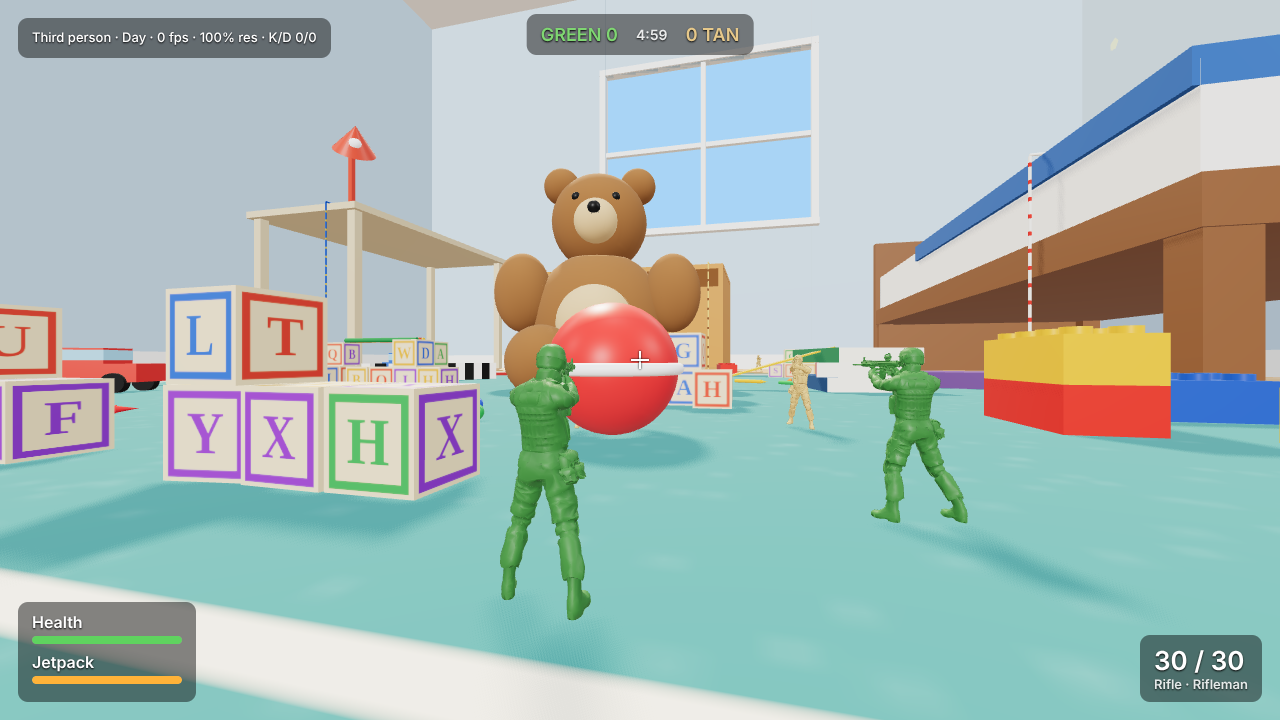
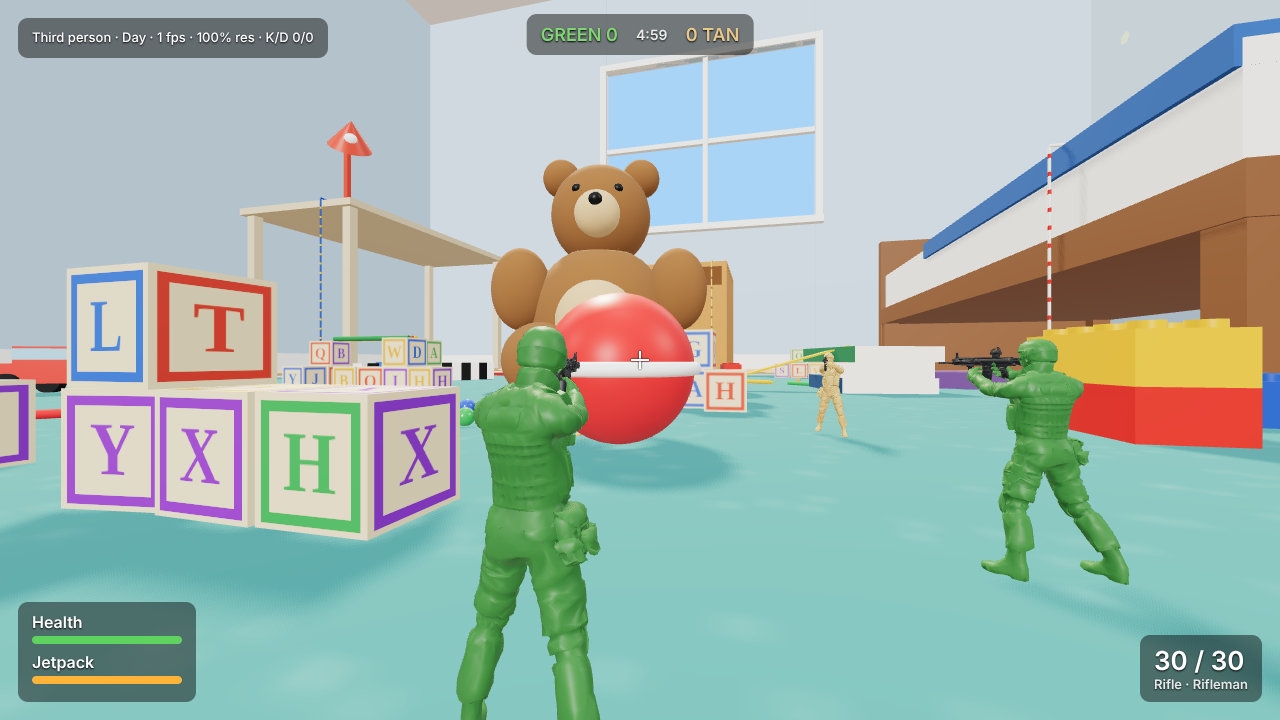
Toy Soldiers: weapon views closer to AAA framing
Compared first-person hip, aimed and third-person views of every
weapon against the conventions of big shooters and adjusted:

- Guns get their own dark plastic so they read against the hands
  (soldier.gunColor; null restores one-colour figures)
- Hip view: gun larger, higher and angled in from the lower right
- Aiming: sight held closer to the eye in first person for a larger
  sight picture; red-dot sights draw a glowing dot
- Third person: camera closer over the right shoulder so the soldier
  fills about 40% of the view height

Claude-Session: https://claude.ai/code/session_0152o8Qf7nJissMg9Znhw23j

diff --git a/toy-soldiers/src/entities/RiggedSoldier.js b/toy-soldiers/src/entities/RiggedSoldier.js
@@ -221,6 +221,16 @@ function boneChunks(geometry, rest) {
   return out;
 }
 
+// Guns: their own dark plastic (or the team colour if gunColor is null).
+let gunMat = null;
+function gunMaterial(team) {
+  if (CONFIG.soldier.gunColor == null) return soldierMaterial(team);
+  gunMat ??= new THREE.MeshStandardMaterial({ color: CONFIG.soldier.gunColor, roughness: 0.4, metalness: 0, vertexColors: true, side: THREE.DoubleSide });
+  return gunMat;
+}
+const dotGeometry = new THREE.SphereGeometry(0.011, 10, 8);
+const dotMaterial = new THREE.MeshBasicMaterial({ color: 0xff2a1a, toneMapped: false });
+
 const materials = {};
 export function soldierMaterial(team) {
   materials[team] ??= new THREE.MeshStandardMaterial({
@@ -250,20 +260,21 @@ export function createSoldier(team, { detail = 'game', hideHead = false, gun = C
   root.add(mesh);
   if (hideHead) bones[B.head].scale.setScalar(0.001);
 
-  const gunMesh = new THREE.Mesh(assets.guns[gun][detail], material);
+  const gunMesh = new THREE.Mesh(assets.guns[gun][detail], gunMaterial(team));
   gunMesh.castShadow = true;
   gunMesh.receiveShadow = true;
   gunMesh.frustumCulled = false;
   root.add(gunMesh);
   const muzzle = new THREE.Object3D();
-  gunMesh.add(muzzle);
+  const dot = new THREE.Mesh(dotGeometry, dotMaterial); // red-dot reticle, shown for guns that have one
+  gunMesh.add(muzzle, dot);
 
   const model = {
-    root, mesh, bones, material, gunMesh, muzzle, gunId: null, hold: null,
+    root, mesh, bones, material, gunMesh, muzzle, dot, gunId: null, hold: null,
     eye: new THREE.Vector3(), // where his eye is, in the soldier's own space (updated by animateSoldier)
     pieces: [
       ...(assets.pieces.game).map((c) => ({ geometry: c.geometry, matrix: c.matrix, parent: bones[c.bone] })),
-      { geometry: assets.guns[gun].game, matrix: new THREE.Matrix4(), parent: gunMesh },
+      { geometry: assets.guns[gun].game, matrix: new THREE.Matrix4(), parent: gunMesh, material: gunMesh.material },
     ],
   };
   setGun(model, gun, detail);
@@ -277,6 +288,8 @@ export function setGun(model, id, detail = 'game') {
   model.hold = g.hold;
   model.gunMesh.geometry = g[detail];
   model.muzzle.position.copy(g.hold.muzzle);
+  model.dot.visible = !!g.hold.dot;
+  model.dot.position.copy(g.hold.sight);
   model.pieces[model.pieces.length - 1].geometry = g.game;
 }
 
@@ -329,13 +342,14 @@ function gait(curve, p) {
 // Run cycle, aim, recoil, reload, sprint, and holding the gun.
 //   phase: advances with distance (2π per stride); amount: 0 standing to 1 running;
 //   pace: 1 at a jog, higher sprinting.
-//   pose: { pitch (radians), kick, reload, sprint, ads, moveAngle } — ads is 1
+//   pose: { pitch (radians), kick, reload, sprint, ads, moveAngle, relief } — ads is 1
 //   with the gun up at the eye (how other soldiers always hold it) and 0 at
 //   the hip; moveAngle is the direction of travel relative to where he faces
-//   (0 forward, π/2 to his right, π backward).
+//   (0 forward, π/2 to his right, π backward); relief scales how far in front of
+//   the eye the sight is held (first person brings it closer for a larger sight picture).
 export function animateSoldier(model, phase, amount, pace = 1, pose = {}) {
   const { rest, J, hands } = assets;
-  const { pitch = 0, kick = 0, reload = 0, sprint = 0, ads = 1, moveAngle = 0 } = pose;
+  const { pitch = 0, kick = 0, reload = 0, sprint = 0, ads = 1, moveAngle = 0, relief = 1 } = pose;
   const aim = THREE.MathUtils.clamp(pitch, -0.9, 0.9);
   const carry = Math.max(sprint, reload);
   const fwd = Math.cos(moveAngle), sideways = Math.sin(moveAngle);
@@ -377,13 +391,15 @@ export function animateSoldier(model, phase, amount, pace = 1, pose = {}) {
   const h = model.hold;
   const low = 1 - ads;
   gunQ.setFromEuler(_e.set(
-    aim * (1 - carry) - 0.6 * sprint - 0.65 * reload + 0.09 * kick,
-    0.2 * low + 0.5 * sprint,
-    -0.1 * low + 0.45 * reload + 0.15 * sprint, 'YXZ'));
-  gunP.set(0, 0, -(h.reach ?? 0.72)).applyQuaternion(gunQ).add(model.eye).sub(_a.copy(h.sight).applyQuaternion(gunQ)); // sight held in front of the eye
-  gunP.x += 0.45 * low + 0.1 * carry;
-  gunP.y -= 0.3 * low + 0.75 * carry;
-  gunP.z += -0.05 * low + 0.14 * kick;
+    aim * (1 - carry) - 0.6 * sprint - 0.65 * reload + 0.09 * kick + 0.03 * low,
+    0.13 * low + 0.5 * sprint,
+    -0.07 * low + 0.45 * reload + 0.15 * sprint, 'YXZ'));
+  gunP.set(0, 0, -(h.reach ?? 0.72) * relief).applyQuaternion(gunQ).add(model.eye).sub(_a.copy(h.sight).applyQuaternion(gunQ)); // sight held in front of the eye
+  // At the hip the gun drops just below the eye line and out to the right,
+  // close enough to fill the lower right of the view.
+  gunP.x += 0.3 * low + 0.1 * carry;
+  gunP.y -= 0.23 * low + 0.75 * carry;
+  gunP.z += -0.06 * low + 0.14 * kick;
   model.gunMesh.position.copy(gunP);
   model.gunMesh.quaternion.copy(gunQ);
 

diff --git a/toy-soldiers/src/config.js b/toy-soldiers/src/config.js
@@ -4,7 +4,9 @@ export const CONFIG = {
   gravity: 120, // tuned for feel at toy scale, not real-world 981 cm/s^2
 
   // `model` is the converted figure in public/models/soldier/ (see tools/stl2glb.mjs).
-  soldier: { height: 6, radius: 1.1, eyeHeight: 5.3, model: 'assault' },
+  // `gunColor` paints guns a separate dark plastic so they read against the
+  // hands; set it to null for one-colour figures, guns included.
+  soldier: { height: 6, radius: 1.1, eyeHeight: 5.3, model: 'assault', gunColor: 0x2b2e31 },
 
   move: {
     walkSpeed: 34,
@@ -26,7 +28,8 @@ export const CONFIG = {
   camera: {
     fov: 75,
     adsFov: 48,
-    thirdPerson: { distance: 11, height: 5.6, shoulder: 2.2 },
+    // Over the right shoulder, close enough that the soldier fills about 40% of the height.
+    thirdPerson: { distance: 6.6, height: 5.5, shoulder: 1.5 },
     mouseSensitivity: 0.0022,
     stickSensitivity: 2.6,
   },

diff --git a/toy-soldiers/src/systems/Effects.js b/toy-soldiers/src/systems/Effects.js
@@ -81,7 +81,7 @@ export class Effects {
     let left = model.pieces.length;
     const done = () => { if (--left === 0) material.dispose(); };
     for (const piece of model.pieces) {
-      const mesh = new THREE.Mesh(piece.geometry, material);
+      const mesh = new THREE.Mesh(piece.geometry, piece.material ?? material);
       _m.multiplyMatrices(piece.parent.matrixWorld, piece.matrix).decompose(mesh.position, mesh.quaternion, mesh.scale);
       mesh.receiveShadow = true; // keeps the soldier's shader variant: no compile hitch
       this.scene.add(mesh);

diff --git a/toy-soldiers/src/systems/Weapon.js b/toy-soldiers/src/systems/Weapon.js
@@ -147,6 +147,7 @@ export class Weapon {
     setGun(this.fp, this.def.model, 'full');
     animateSoldier(this.fp, p.walkPhase, p.runBlend, p.horizontal.length() / CONFIG.move.walkSpeed, {
       pitch: 0, kick: this.kick, reload: lowered, sprint: p.sprintBlend * (1 - a), ads: a, moveAngle: p.moveAngle ?? 0,
+      relief: 0.78, // closer than other soldiers hold it: a larger sight picture
     });
     this.fp.root.position.copy(this.fp.eye).negate(); // his eye at the camera
     this.holder.position.set(

diff --git a/toy-soldiers/README.md b/toy-soldiers/README.md
@@ -80,14 +80,15 @@ The soldier is a gun-less character mesh with a skeleton, holding a separate gun
 - **Animation**: a keyframed run cycle (foot strike, push-off, knee drive) whose legs step in the direction of travel, forward, sideways or backward; the spine follows the aim; both arms are solved every frame to reach the gun's grips wherever the gun is (aiming, recoil, reload, sprint carry). Soldiers break into one piece per bone when shot.
 - **First person** is a second copy of the player's soldier at full detail with the head hidden, seen from his eye, so it always matches what others see.
 
+Guns are painted a separate dark plastic so they read against the hands (`soldier.gunColor` in `src/config.js`; set it to `null` for one-colour figures). A gun prepared with `--dot 1` gets a glowing red dot in its sight.
+
 To add a gun: `node tools/gun2glb.mjs <gun.glb> public/models/guns/<name> --length <cm> --grip <material> --fore <material> --stock <material> --sight <material> --barrel <material>`, then set `model: '<name>'` on a weapon in `src/config.js`. A part can also be given as a region of the source model (`box:x0,y0,z0,x1,y1,z1`) when the gun has no separate part for it; `public/models/guns/CREDITS.txt` lists the sources.
 
 Earlier static figures (nimproductions, CC BY 4.0; Dolphin-GS) are kept in `public/models/soldier/` for the gallery. All credits: `public/models/soldier/CREDITS.txt` and `public/models/guns/CREDITS.txt`. Kenney's CC0 models are in `public/models/kenney/`.
 
 ![Run cycle, eight frames of one stride](docs/run-cycle.png)
 ![Close-up: front quarter, back, legs mid-stride](docs/soldier-close-up.png)
-![M4A1: third person, then first person at the hip and aiming](docs/gun-m4a1.png)
-![Glock 19: third person, then first person at the hip and aiming](docs/gun-glock.png)
+![Every weapon: first person at the hip, aiming, and third person](docs/weapon-views.png)
 
 ## Model gallery
 
